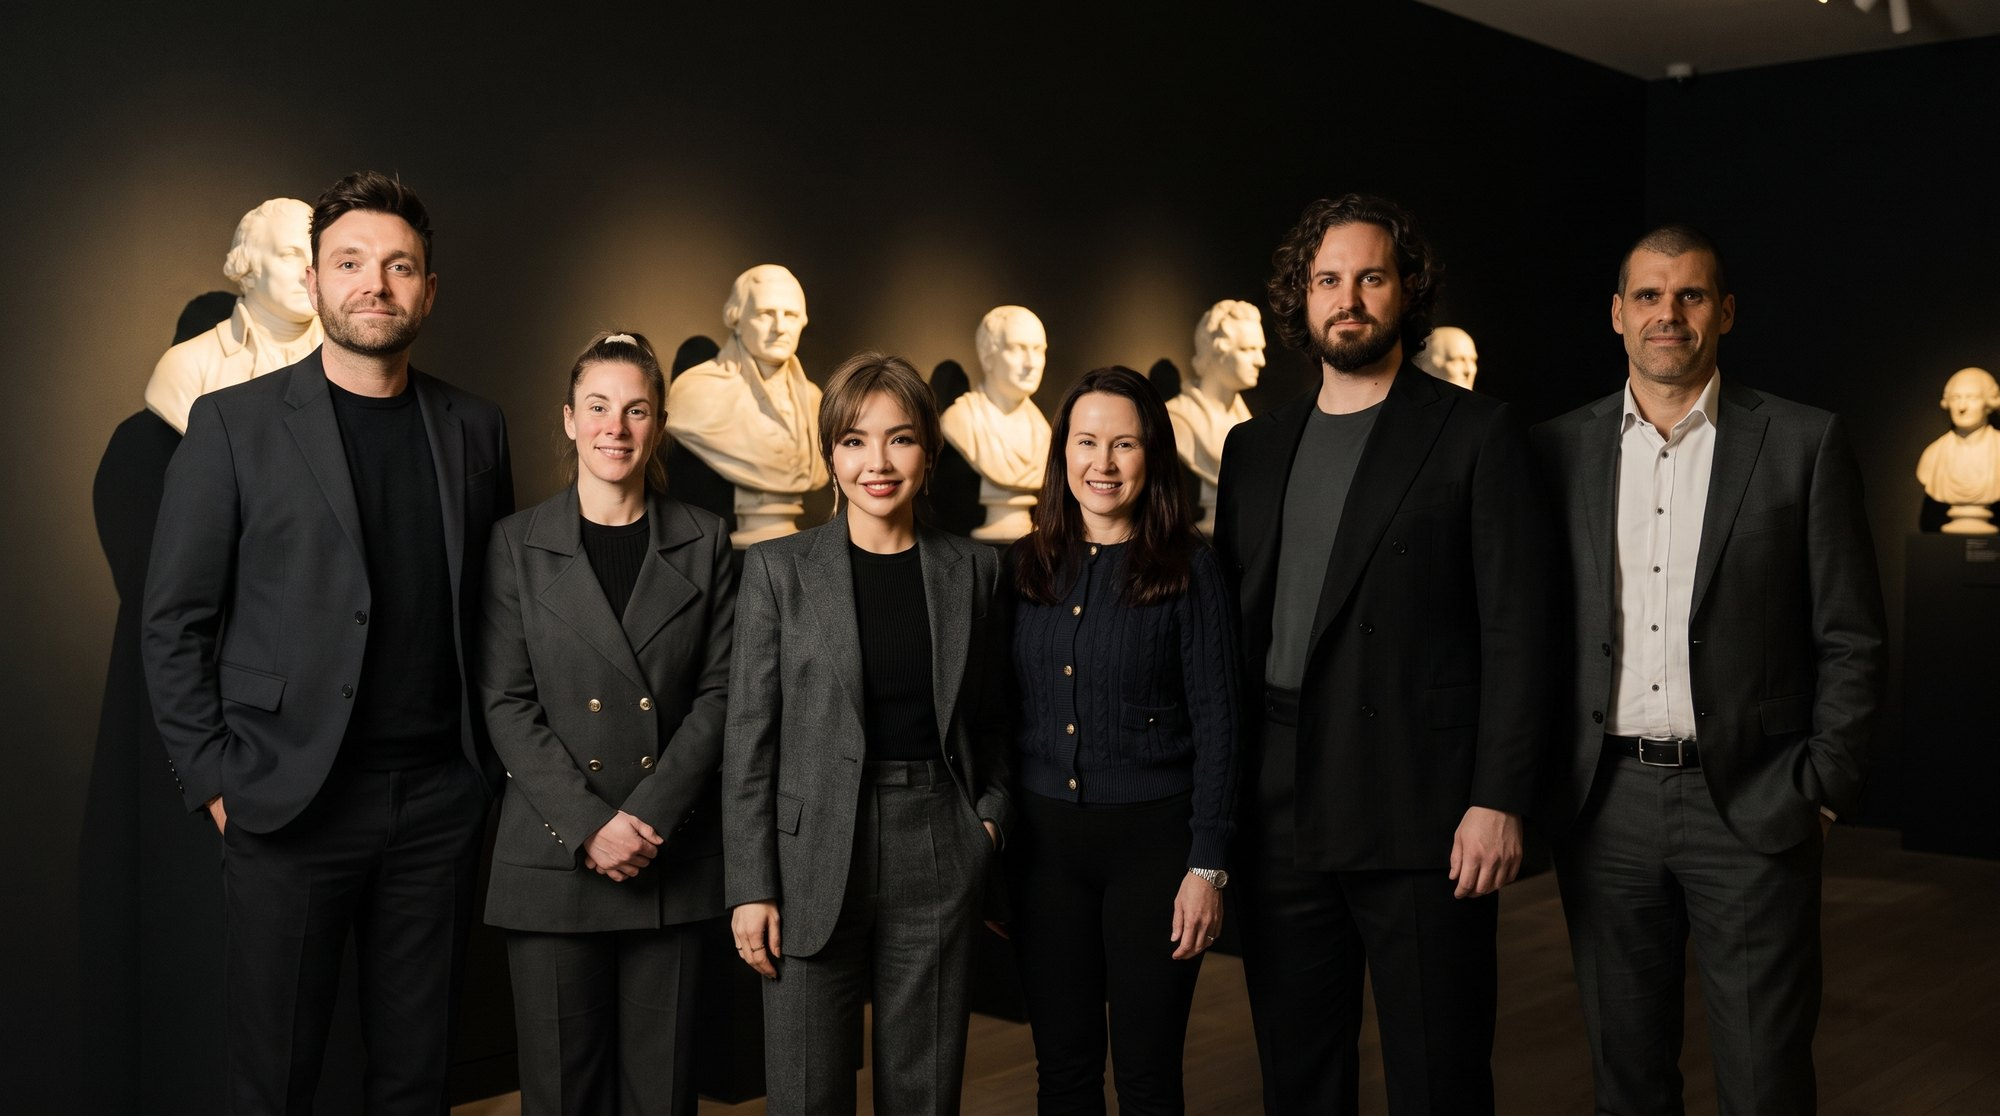
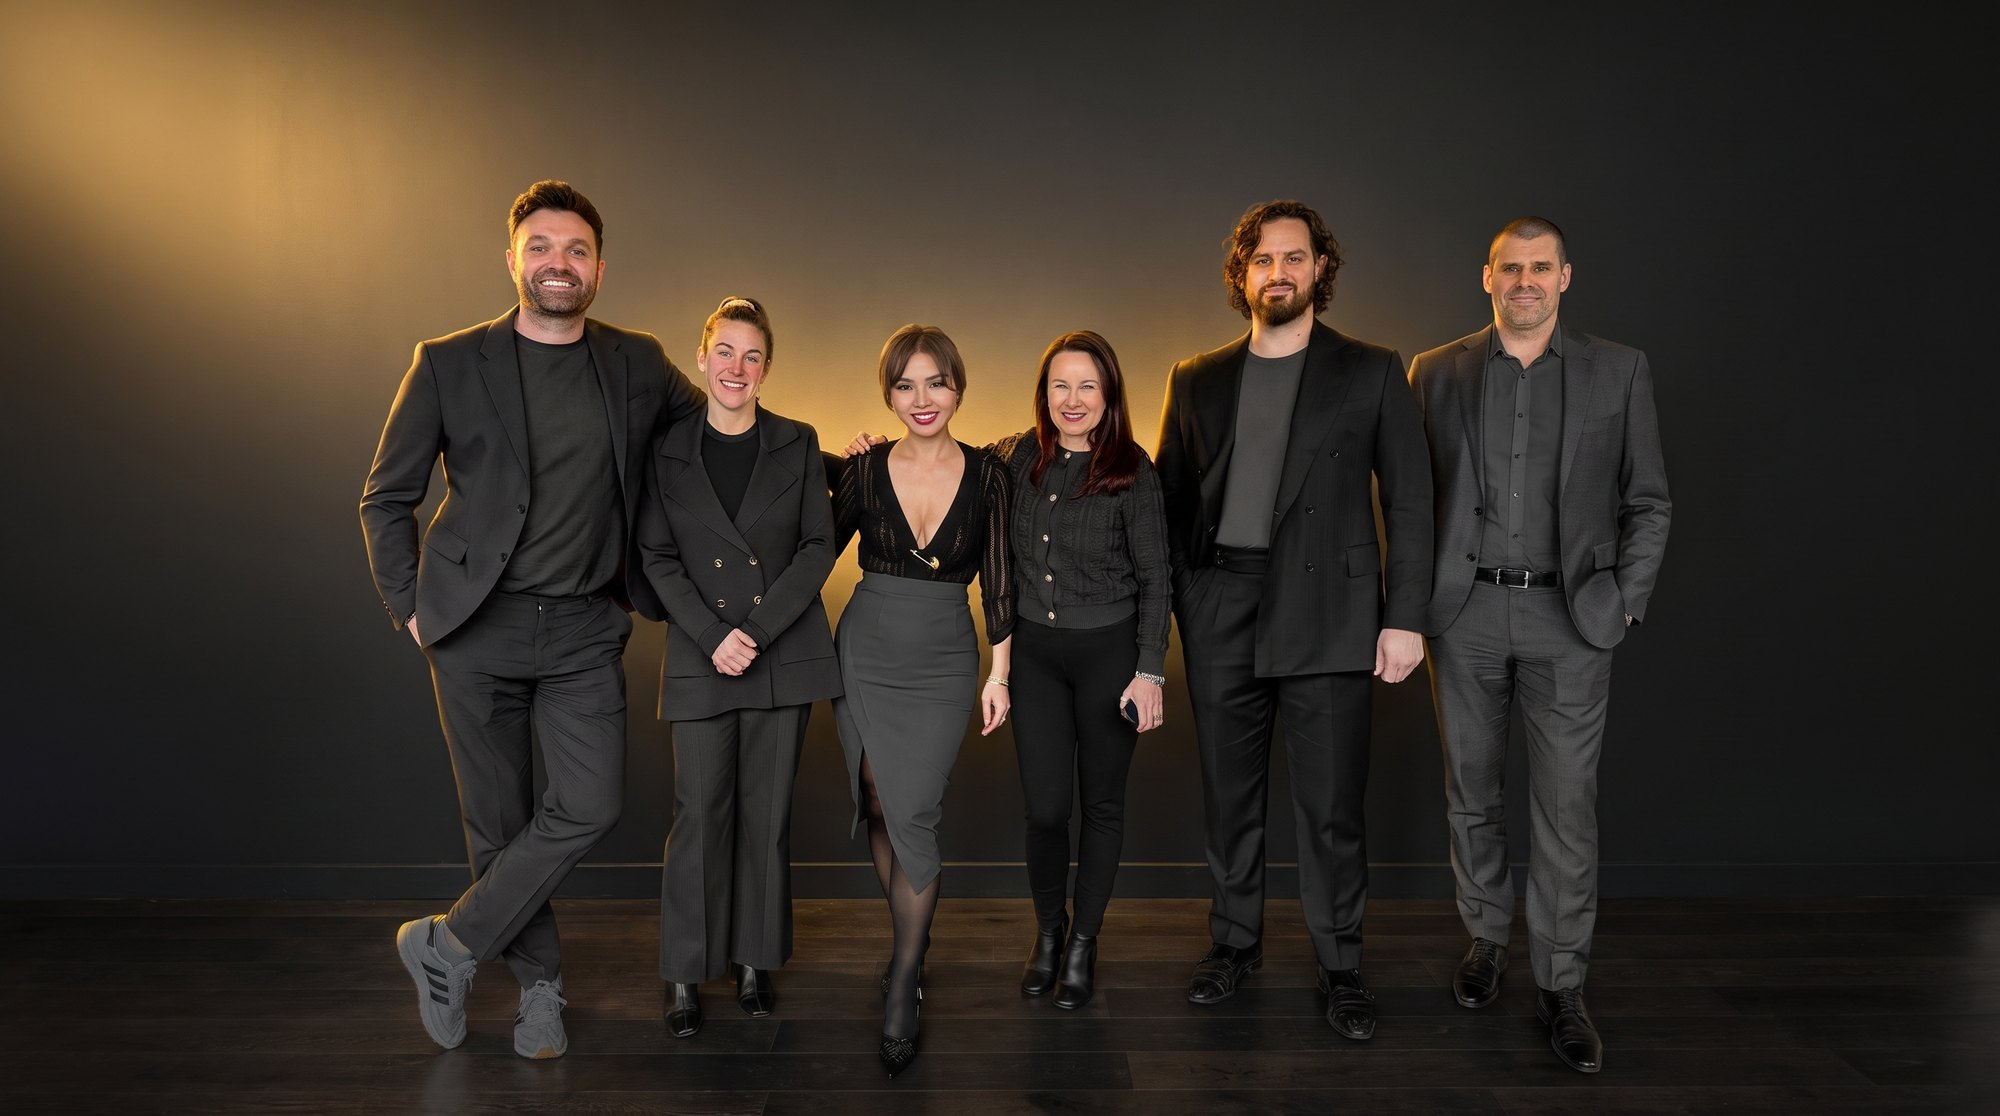
Regenerate the team portrait with faithful faces, drop the hero paragraph
The previous team image drifted the faces: the model restaged everyone
standing straight and redrew features, so people were no longer
recognisable. Regenerated with the edit constrained to background and
clothing, and the instruction to carry the faces across unchanged. The
new frame keeps each person's original pose from the reference, which is
what was pulling the faces off before.

The classical marble busts and the timber-slat alcove are gone. Behind
the group is now a plain matte dark grey wall with a warm gold wash and a
dark timber floor, which also sits closer to the site's palette than the
oak did.

Alt text corrected: six people, not seven, and no longer a gallery.

Also removes the "Five businesses under one Trust" paragraph from the
hero along with its .trust-line CSS.

Claude-Session: https://claude.ai/code/session_01AKWsV556B7aRKDxLJ3HGec

diff --git a/index.html b/index.html
@@ -370,16 +370,6 @@ p:last-child{ margin-bottom:0; }
   gap:1.1rem 1.9rem;
 }
 
-.trust-line{
-  margin-top:clamp(2.6rem,6vw,4rem);
-  padding-top:1.15rem;
-  border-top:1px solid var(--rule-soft);
-  max-width:32rem;
-  font-size:.875rem;
-  color:var(--slate);
-}
-.trust-line strong{ color:var(--bone); font-weight:400; }
-
 /* ---------- buttons ---------- */
 
 .btn{
@@ -632,11 +622,6 @@ p:last-child{ margin-bottom:0; }
           <a class="btn btn-gold" href="#contact">Start a conversation</a>
           <a class="btn btn-quiet" href="#work">See where we work</a>
         </div>
-
-        <p class="trust-line" data-rise style="--d:660">
-          Five businesses under one <strong>Trust</strong>, ordered by how deeply
-          we get involved. Most clients start at the first and never need the fifth.
-        </p>
       </div>
     </div>
   </section>
@@ -816,7 +801,7 @@ p:last-child{ margin-bottom:0; }
       </div>
 
       <figure class="plate" style="margin-top:0">
-        <img src="assets/omd-team.jpg" alt="The OMD International team, seven people, photographed in a dark gallery." width="2000" height="1116" loading="lazy" decoding="async">
+        <img src="assets/omd-team.jpg" alt="The six people of the OMD International team, standing together against a dark grey wall lit from behind." width="2000" height="1116" loading="lazy" decoding="async">
       </figure>
 
       <div class="people-grid" style="margin-top:clamp(2rem,4.5vw,3rem)">
